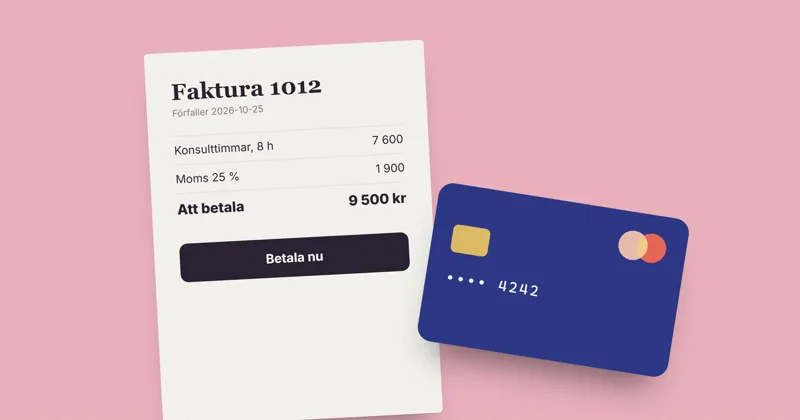
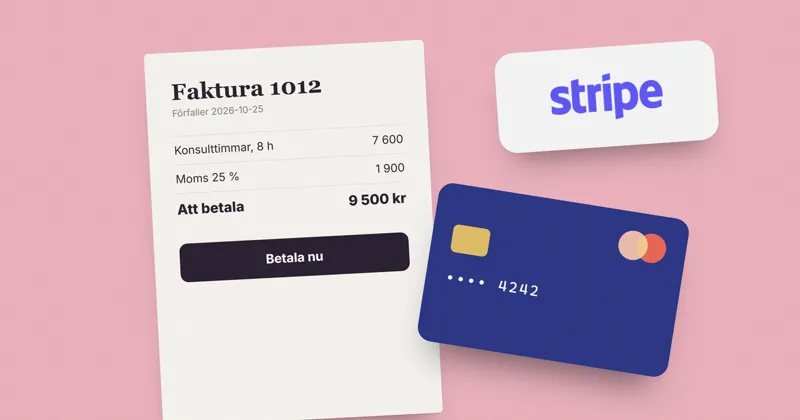
feat: Stripe-, Zettle- och Gmail-loggorna i nyheternas omslag

Changed region(s): [[0.5938, 0.0929, 0.9062, 0.4024]]

diff --git a/src/content/marketing/news.js b/src/content/marketing/news.js
@@ -134,7 +134,7 @@ export const NEWS_POSTS = [
     seoDescription: 'Låt kunderna betala fakturan med kort, Apple Pay eller Google Pay via Stripe. Bokix prickar av betalningen och bokför moms och avgifter.',
     excerpt: 'Kunden betalar med kort via Stripe, och Bokix bokför.',
     image: '/blog/nyhet-stripe.jpg',
-    imageAlt: 'Tecknad faktura med en knapp där det står Betala nu, bredvid ett betalkort',
+    imageAlt: 'Tecknad faktura med en knapp där det står Betala nu, ett betalkort och Stripes logga',
     datePublished: '2026-09-25',
     dateModified: '2026-10-13',
     readTime: '~2 min läsning',
@@ -169,7 +169,7 @@ export const NEWS_POSTS = [
     seoDescription: 'Tar du betalt med Zettle? Bokix hämtar dagens försäljning och skapar färdiga dagsavslut med rätt moms och avgifter.',
     excerpt: 'Dagens försäljning blir ett färdigt dagsavslut.',
     image: '/blog/nyhet-zettle.jpg',
-    imageAlt: 'Tecknad kortläsare bredvid ett långt kassakvitto med dagens försäljning per momssats',
+    imageAlt: 'Tecknad kortläsare, ett dagsavslut per momssats och Zettles logga',
     datePublished: '2026-09-25',
     dateModified: '2026-10-13',
     readTime: '~2 min läsning',
@@ -209,7 +209,7 @@ export const NEWS_POSTS = [
     seoDescription: 'Koppla Gmail till Bokix så går fakturor, offerter och påminnelser från din egen adress. Svaren hamnar i din inkorg och Bokix kan inte läsa din e-post.',
     excerpt: 'Skicka från din egen adress. Bokix kan inte läsa din e-post.',
     image: '/blog/nyhet-gmail.jpg',
-    imageAlt: 'Tecknat kuvert från din egen adress med en faktura som pdf',
+    imageAlt: 'Tecknat kuvert från din egen adress med en faktura som pdf, och Gmails logga',
     datePublished: '2026-09-28',
     dateModified: '2026-10-13',
     readTime: '~2 min läsning',

diff --git a/scripts/blog-art/nyhet-gmail.html b/scripts/blog-art/nyhet-gmail.html
@@ -17,6 +17,6 @@
   <div class="stamp"></div>
   <div class="to"><b>Från</b>info@dittforetag.se</div>
 </div>
-<div class="abs trail"><i style="left:0;top:60px;width:120px"></i><i style="left:30px;top:100px;width:160px"></i><i style="left:10px;top:140px;width:90px"></i></div>
+<div class="abs" style="left:880px;top:110px;width:190px;height:190px;transform:rotate(6deg);background:#fff;border-radius:28px;display:flex;align-items:center;justify-content:center;box-shadow:0 30px 44px -24px rgba(0,0,0,0.45)"><svg viewBox="52 42 88 66" style="width:120px;height:auto"><path fill="#4285f4" d="M58 108h14V74L52 59v43c0 3.32 2.69 6 6 6"/><path fill="#34a853" d="M120 108h14c3.32 0 6-2.69 6-6V59l-20 15"/><path fill="#fbbc04" d="M120 48v26l20-15v-8c0-7.42-8.47-11.65-14.4-7.2"/><path fill="#ea4335" d="M72 74V48l24 18 24-18v26L96 92"/><path fill="#c5221f" d="M52 51v8l20 15V48l-5.6-4.2c-5.94-4.45-14.4-.22-14.4 7.2"/></svg></div>
 <div class="grain"></div>
 </div></body></html>

diff --git a/scripts/blog-art/nyhet-zettle.html b/scripts/blog-art/nyhet-zettle.html
@@ -27,5 +27,6 @@
   <div class="l" style="font-weight:800;font-size:18px"><span>SUMMA</span><span>9 250</span></div>
 </div>
 <div class="abs reader"><div class="scr"><b>64,00</b><span>Blippa kortet</span></div><div class="keys"><i></i><i></i><i></i><i></i><i></i><i></i><i></i><i></i><i></i></div></div>
+<div class="abs" style="left:915px;top:330px;width:230px;height:150px;transform:rotate(5deg);background:#fff;border-radius:28px;display:flex;align-items:center;justify-content:center;box-shadow:0 30px 44px -24px rgba(0,0,0,0.45)"><img src="../../public/zettle-logo.png" style="width:180px;height:auto" alt=""></div>
 <div class="grain"></div>
 </div></body></html>

diff --git a/scripts/blog-art/nyhet-stripe.html b/scripts/blog-art/nyhet-stripe.html
@@ -21,5 +21,6 @@
   <div class="pay">Betala nu</div>
 </div>
 <div class="abs card"><div class="circ"></div><div class="circ"></div><div class="chip"></div><div class="num mono">•••• 4242</div></div>
+<div class="abs" style="left:745px;top:70px;width:330px;height:150px;transform:rotate(-4deg);background:#fff;border-radius:28px;display:flex;align-items:center;justify-content:center;box-shadow:0 30px 44px -24px rgba(0,0,0,0.45)"><img src="../../public/stripe-wordmark.png" style="height:70px;width:auto" alt=""></div>
 <div class="grain"></div>
 </div></body></html>
